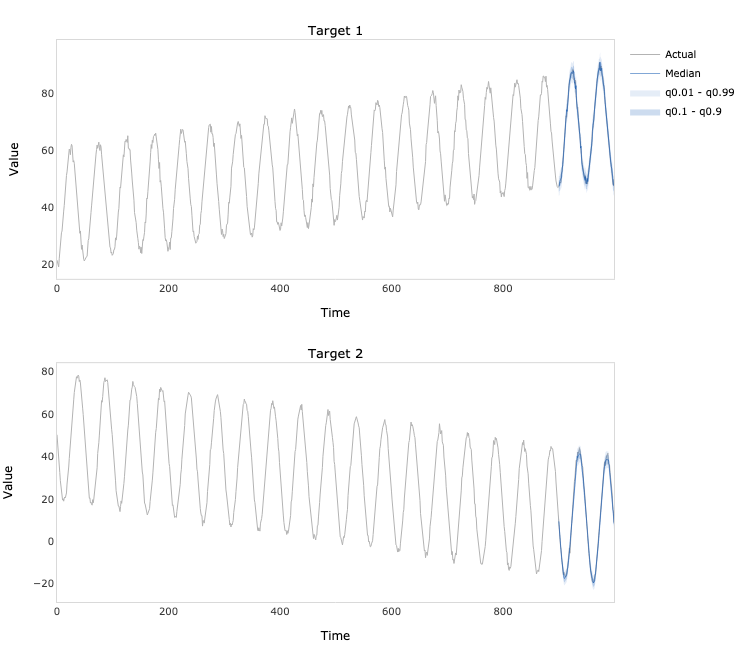
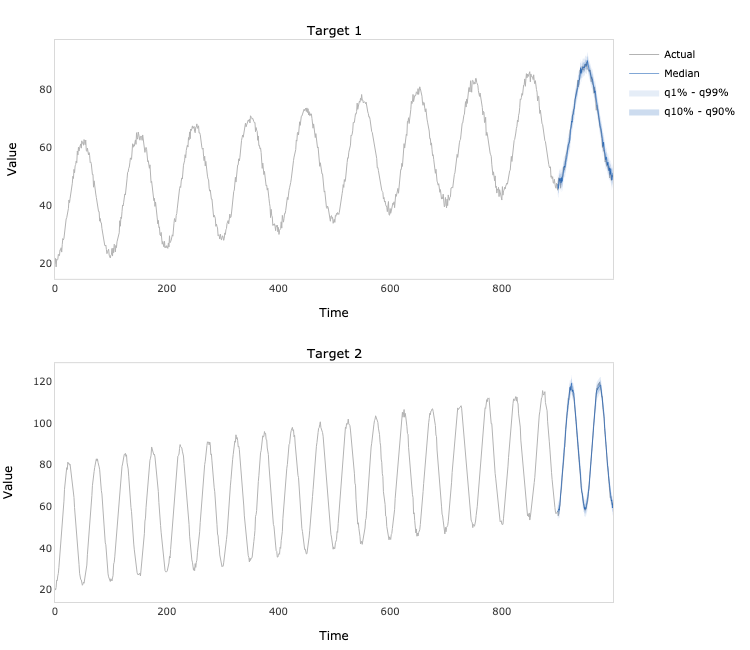
update example

diff --git a/tcan_tensorflow/plots.py b/tcan_tensorflow/plots.py
@@ -97,8 +97,8 @@ def plot(df, q, n_targets, n_quantiles):
                 go.Scatter(
                     x=df['time_idx'],
                     y=df['target_' + str(i + 1) + '_' + str(q[- (j + 1)])],
-                    name='q' + str(q[j]) + ' - q' + str(q[- (j + 1)]),
-                    legendgroup='q' + str(q[j]) + ' - q' + str(q[- (j + 1)]),
+                    name='q' + format(q[j], '.0%') + ' - q' + format(q[- (j + 1)], '.0%'),
+                    legendgroup='q' + format(q[j], '.0%') + ' - q' + format(q[- (j + 1)], '.0%'),
                     showlegend=False,
                     mode='lines',
                     line=dict(
@@ -114,8 +114,8 @@ def plot(df, q, n_targets, n_quantiles):
                 go.Scatter(
                     x=df['time_idx'],
                     y=df['target_' + str(i + 1) + '_' + str(q[j])],
-                    name='q' + str(q[j]) + ' - q' + str(q[- (j + 1)]),
-                    legendgroup='q' + str(q[j]) + ' - q' + str(q[- (j + 1)]),
+                    name='q' + format(q[j], '.0%') + ' - q' + format(q[- (j + 1)], '.0%'),
+                    legendgroup='q' + format(q[j], '.0%') + ' - q' + format(q[- (j + 1)], '.0%'),
                     showlegend=True if i == 0 else False,
                     mode='lines',
                     fill='tonexty',

diff --git a/example/example.py b/example/example.py
@@ -4,9 +4,9 @@ from tcan_tensorflow.model import TCAN
 # Generate two time series
 N = 1000
 t = np.linspace(0, 1, N)
-e = np.random.multivariate_normal(mean=[0, 0], cov=[[1, 0.25], [0.25, 1]], size=N)
-a = 40 + 30 * t + 20 * np.cos(2 * np.pi * (20 * t - 0.5)) + e[:, 0]
-b = 50 - 40 * t + 30 * np.sin(2 * np.pi * (20 * t - 0.5)) + e[:, 1]
+e = np.random.multivariate_normal(mean=np.zeros(2), cov=np.eye(2), size=N)
+a = 40 + 30 * t + 20 * np.cos(2 * np.pi * (10 * t - 0.5)) + e[:, 0]
+b = 50 + 40 * t + 30 * np.cos(2 * np.pi * (20 * t - 0.5)) + e[:, 1]
 y = np.hstack([a.reshape(- 1, 1), b.reshape(- 1, 1)])
 
 # Fit the model

diff --git a/README.MD b/README.MD
@@ -26,9 +26,9 @@ from tcan_tensorflow.model import TCAN
 # Generate two time series
 N = 1000
 t = np.linspace(0, 1, N)
-e = np.random.multivariate_normal(mean=[0, 0], cov=[[1, 0.25], [0.25, 1]], size=N)
-a = 40 + 30 * t + 20 * np.cos(2 * np.pi * (20 * t - 0.5)) + e[:, 0]
-b = 50 - 40 * t + 30 * np.sin(2 * np.pi * (20 * t - 0.5)) + e[:, 1]
+e = np.random.multivariate_normal(mean=np.zeros(2), cov=np.eye(2), size=N)
+a = 40 + 30 * t + 20 * np.cos(2 * np.pi * (10 * t - 0.5)) + e[:, 0]
+b = 50 + 40 * t + 30 * np.cos(2 * np.pi * (20 * t - 0.5)) + e[:, 1]
 y = np.hstack([a.reshape(- 1, 1), b.reshape(- 1, 1)])
 
 # Fit the model
